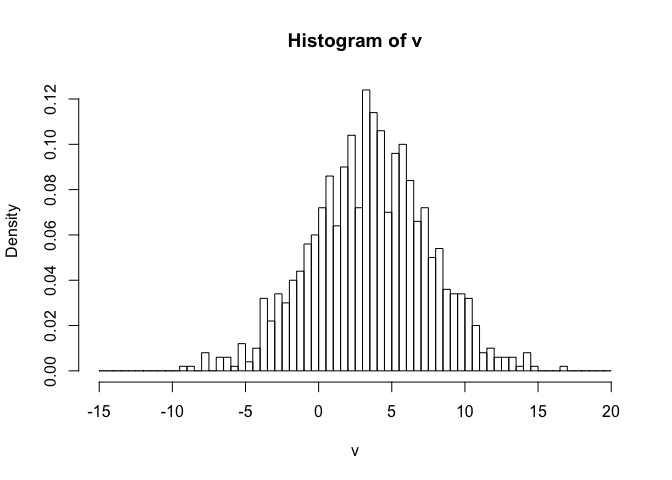
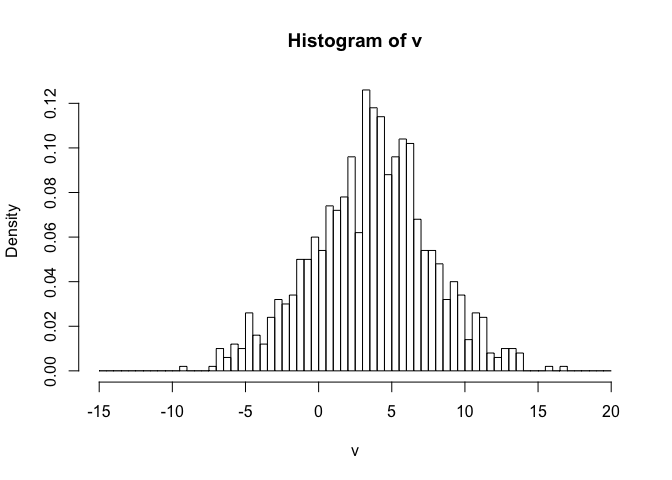
mod 8 update

diff --git a/module-08/module-08.md b/module-08/module-08.md
@@ -669,20 +669,20 @@ The `qnorm()` function will tell us the value of *x* below which a given proport
 > mean(v)
 ```
 
-    ## [1] 3.532445
+    ## [1] 3.661033
 
 ``` r
 > var(v)
 ```
 
-    ## [1] 15.91773
+    ## [1] 16.43401
 
 ``` r
 > se <- sqrt(var(v)/N)
 > se
 ```
 
-    ## [1] 0.1261655
+    ## [1] 0.1281952
 
 ``` r
 > hist(v, breaks = seq(from = -15, to = 20, by = 0.5), probability = TRUE)
